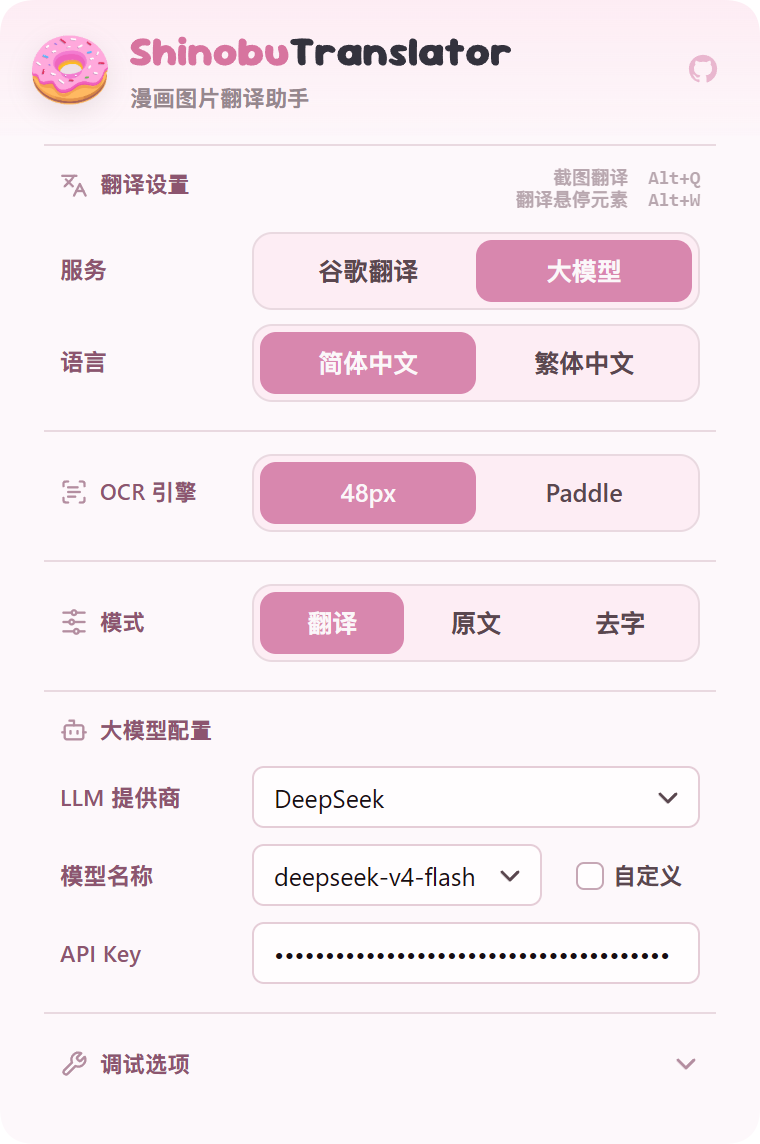
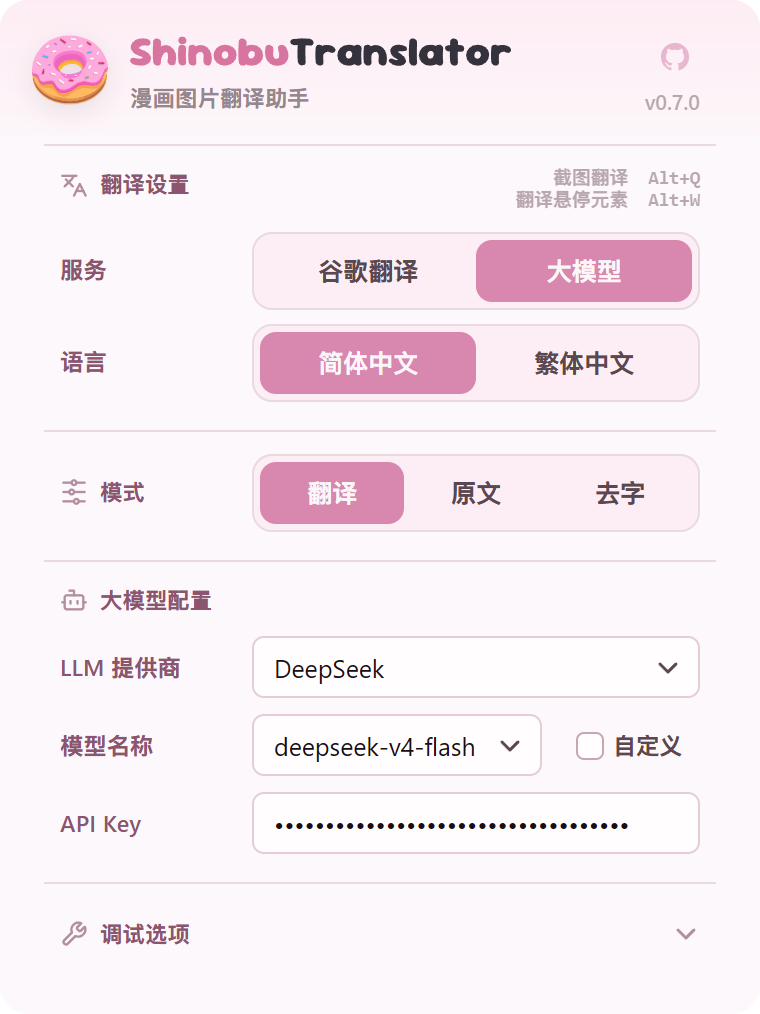
chore: prepare v0.7.0 release

diff --git a/.trellis/spec/frontend/runtime-models.md b/.trellis/spec/frontend/runtime-models.md
@@ -27,6 +27,7 @@
   3. `PP-OCRv6_medium_rec.onnx`
   4. `aot_inpaint_512.onnx`
 - 发布包 `dist/models/` 不应包含旧 48px OCR、PaddleOCR v5、PP-OCRv6 small、Lama inpaint 或旧 bubble 备份。
+- `bubble.onnx` 是同名替换过的模型文件：当前文件必须来自 YOLO11n Bubble，不要因为文件名未变而沿用旧 YOLOv8m 来源判断。
 - benchmark 候选模型不得自动进入前端设置、`models.json` 或默认发布包；需要产品化时先更新本文档。
 
 ### 4. Validation & Error Matrix
@@ -38,6 +39,7 @@
 | 前端重新暴露 OCR 引擎切换 | 用户可选择不存在或未维护的模型 | 移除 UI 选项，只保留内部兼容字段 |
 | 旧设置值没有归一化 | 老用户设置升级后进入无效分支 | 在 `normalizeOcrEngine()` 中迁移到 `paddleocr_v6_medium` |
 | benchmark 继续要求 small/48px/Lama 文件 | 新发布包无法跑性能测试 | 将 benchmark 入口收束到当前发布模型，历史对照只看旧报告 |
+| 只按文件名判断 `bubble.onnx` 未变 | 发布说明、第三方来源或模型 release 可能继续引用旧 YOLOv8m bubble | 对照 SHA256/来源；当前应为 YOLO11n `3DA3317F...789F0A0` |
 
 ### 5. Good/Base/Bad Cases
 
@@ -84,6 +86,13 @@
[3 lines of base64/hex data omitted]
+
+### Bubble 同名替换记录
+
+- 当前 `bubble.onnx` 保持 manifest key 和文件名不变，但二进制内容已经从旧 YOLOv8m speech bubble segmentation 切换为 YOLO11n Bubble。
[2 lines of base64/hex data omitted]
+- 更新发布说明、第三方声明或模型 release 时，必须写当前 YOLO11n 来源；不要沿用旧 `kitsumed/yolov8m_seg-speech-bubble` 描述。
 
 非模型但必须随包保留：
 
